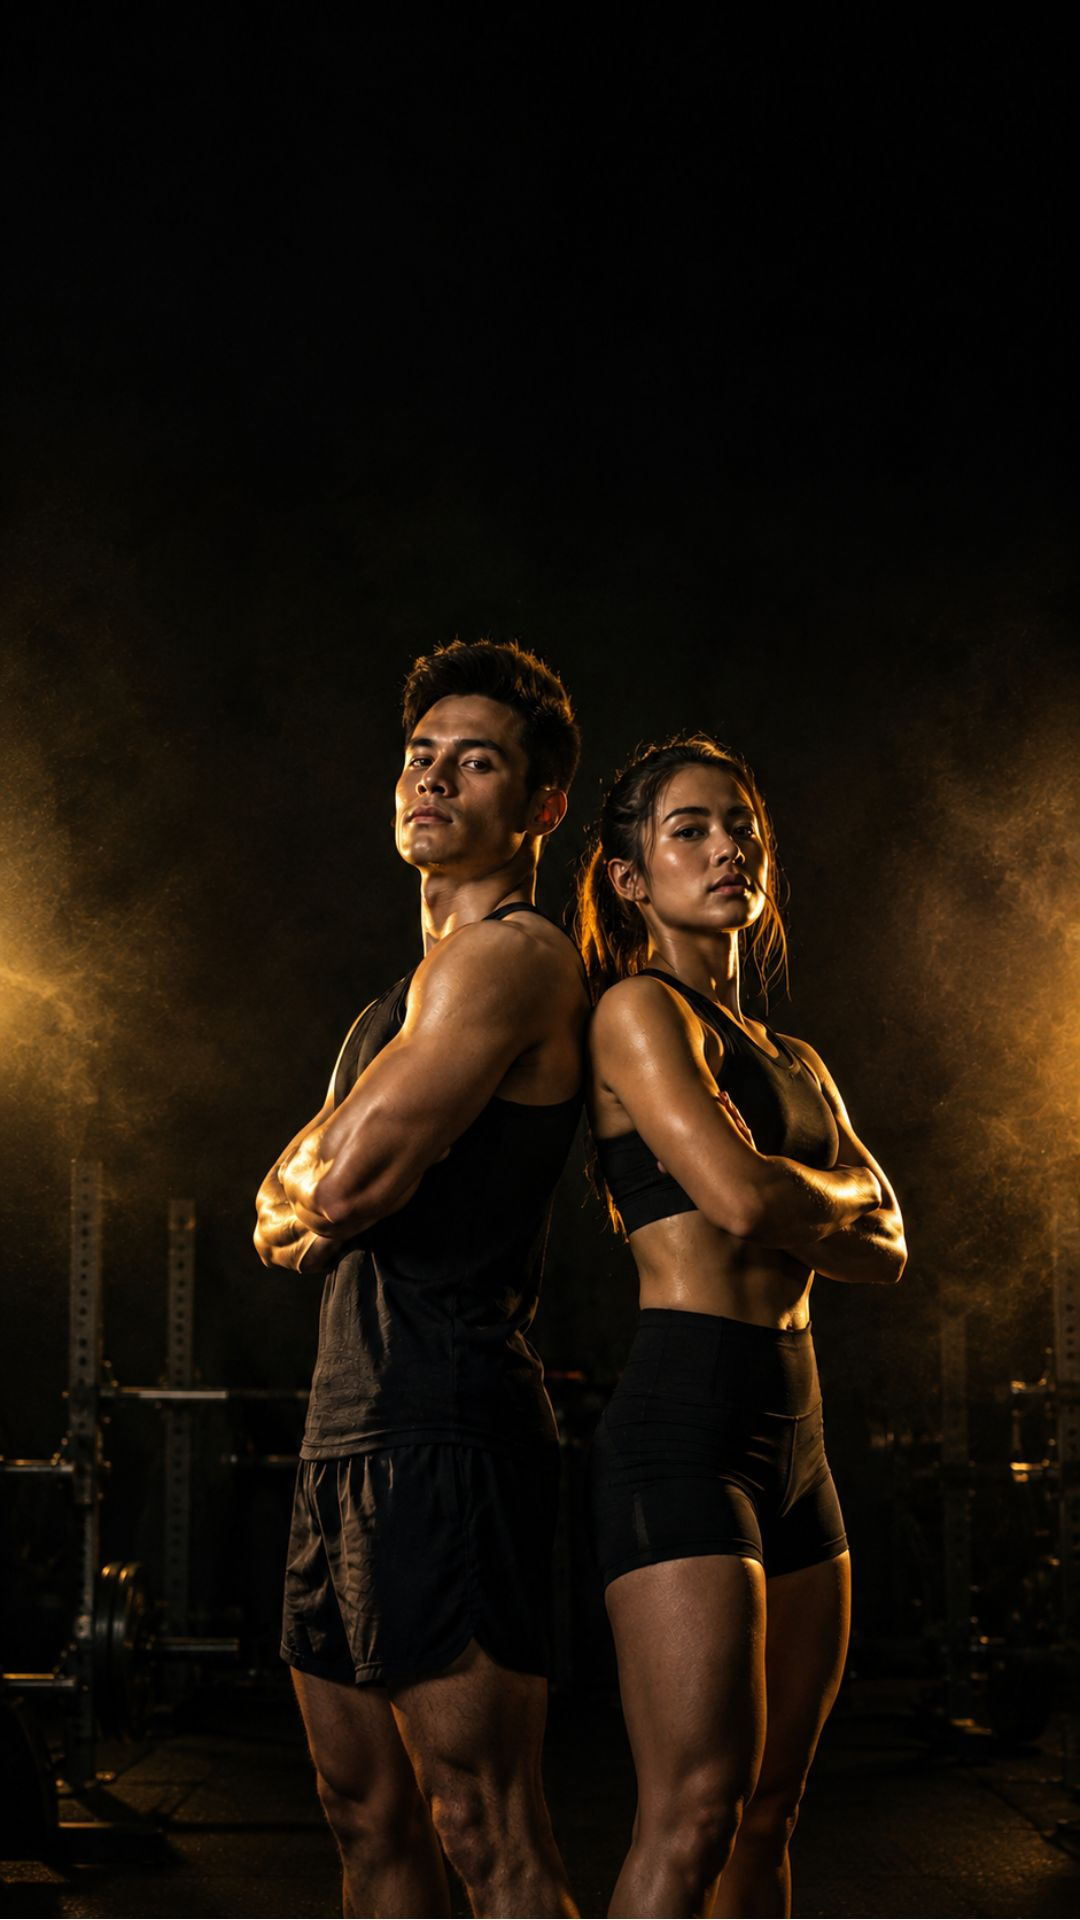
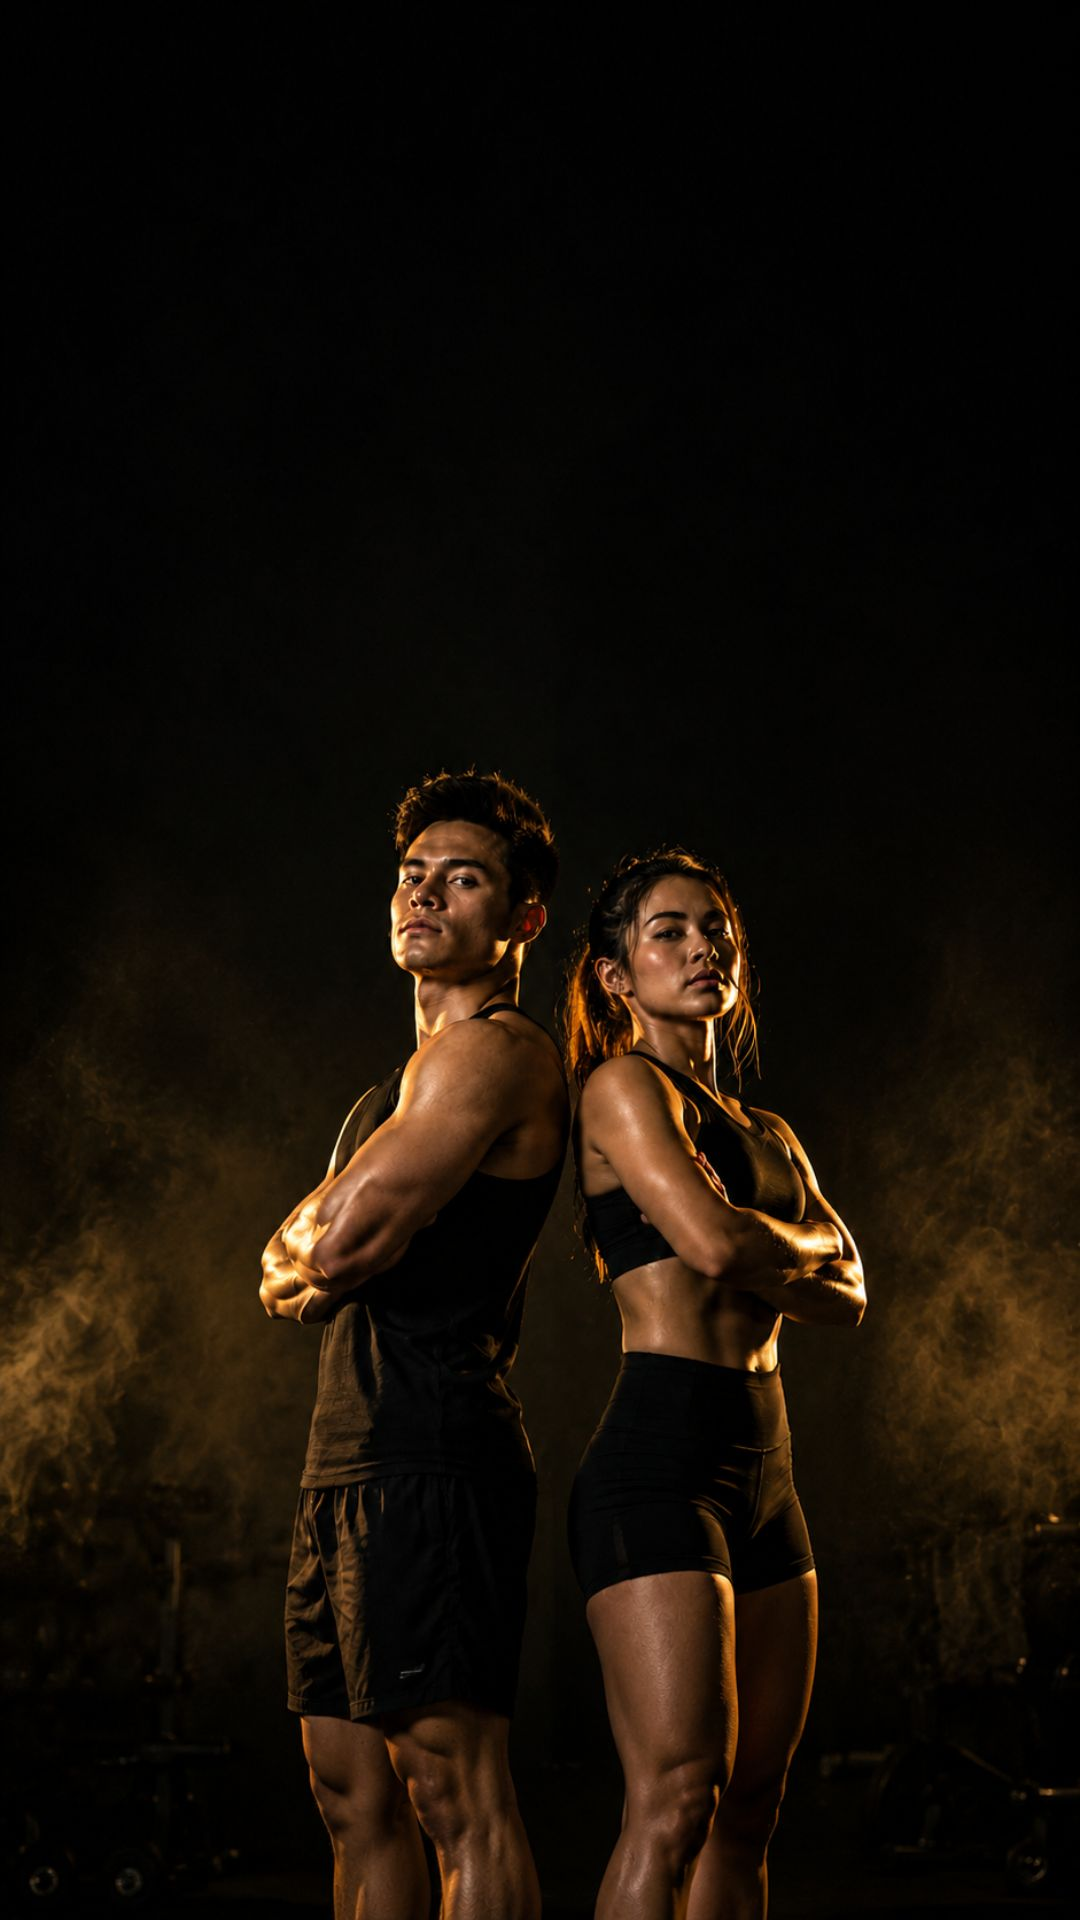
Full-bleed hero on mobile too, using the client's purpose-shot portrait crop
Client supplied a new mobile portrait shot (1080x1920) composed with the
models in the lower ~55-60% of frame and genuine empty space across the
top ~40% — the vertical equivalent of the wide desktop crop. Swapped it
in for the old mobile asset and replaced the stacked text-then-photo
layout with true full-bleed: text sits in the image's own empty top zone,
same overlap-free-by-construction approach as desktop, just top/bottom
instead of left/right.

Added a compact mobile copy variant (smaller headline, tighter spacing)
so the text block clears the subjects even on short viewports like
iPhone SE (667px) — verified at 375x667, 390x844, and 430x932.

Claude-Session: https://claude.ai/code/session_01UQCFeFnV6F8LMrQozMxTa8

diff --git a/src/components/home/Hero.tsx b/src/components/home/Hero.tsx
@@ -4,18 +4,32 @@ import { TAGLINE } from '../../content/product';
 import heroWide from '../../assets/hero-bg-wide.jpg';
 import heroMobile from '../../assets/hero-bg-mobile.jpg';
 
-function HeroCopy({ align = 'center' }: { align?: 'center' | 'left' }) {
+function HeroCopy({
+  align = 'center',
+  compact = false,
+}: {
+  align?: 'center' | 'left';
+  compact?: boolean;
+}) {
   const alignClasses = align === 'left' ? 'items-start text-left' : 'items-center text-center';
   return (
     <div className={`relative flex flex-col ${alignClasses}`}>
       <p className="kicker">Lean &amp; Fit Protein Coffee</p>
-      <h1 className="max-w-xl text-5xl leading-[0.95] text-lf-white sm:text-6xl lg:text-7xl [text-shadow:0_2px_20px_rgba(0,0,0,0.7)]">
+      <h1
+        className={`max-w-xl leading-[0.95] text-lf-white [text-shadow:0_2px_20px_rgba(0,0,0,0.7)] ${
+          compact ? 'text-4xl' : 'text-5xl'
+        } sm:text-6xl lg:text-7xl`}
+      >
         {TAGLINE.hero}
       </h1>
-      <p className="mt-6 max-w-md font-body text-base text-lf-cream/90 sm:text-lg [text-shadow:0_1px_12px_rgba(0,0,0,0.7)]">
+      <p
+        className={`max-w-md font-body text-base text-lf-cream/90 [text-shadow:0_1px_12px_rgba(0,0,0,0.7)] sm:text-lg ${
+          compact ? 'mt-3' : 'mt-6'
+        }`}
+      >
         High protein. Low sugar. Made for an active lifestyle.
       </p>
-      <OrderNowButton className="mt-10" />
+      <OrderNowButton className={compact ? 'mt-6' : 'mt-10'} />
     </div>
   );
 }
@@ -49,26 +63,27 @@ export function Hero() {
         </Container>
       </div>
 
-      {/* Mobile: stacked layout — solid text band on top, tall photo band
-          below cropped to show the full physique (not just faces). */}
-      <div className="sm:hidden">
-        <Container className="pb-10 pt-20">
-          <HeroCopy align="center" />
+      {/* Mobile: full-bleed portrait shot, subjects in the lower ~55% of
+          frame, text sits in the image's own empty top zone — same
+          overlap-free-by-construction approach as desktop, just rotated
+          from left/right to top/bottom. Compact spacing keeps this clear
+          of the subjects even on short viewports (e.g. iPhone SE). */}
+      <div className="relative flex min-h-[100svh] flex-col overflow-hidden sm:hidden">
+        <img
+          src={heroMobile}
+          alt="Fit man and woman, back to back, ready to train"
+          className="absolute inset-0 h-full w-full object-cover object-[50%_0%]"
+        />
+        <div
+          className="pointer-events-none absolute inset-0"
+          style={{
+            background:
+              'linear-gradient(180deg, rgba(13,13,13,0.6) 0%, rgba(13,13,13,0.15) 38%, transparent 50%, rgba(13,13,13,0.55) 100%)',
+          }}
+        />
+        <Container className="relative pb-10 pt-14">
+          <HeroCopy align="center" compact />
         </Container>
-        <div className="relative h-[520px] w-full overflow-hidden">
-          <img
-            src={heroMobile}
-            alt="Fit man and woman, back to back, ready to train"
-            className="absolute inset-0 h-full w-full object-cover object-[50%_38%]"
-          />
-          <div
-            className="pointer-events-none absolute inset-0"
-            style={{
-              background:
-                'linear-gradient(180deg, rgba(13,13,13,0.85) 0%, transparent 16%, transparent 82%, rgba(13,13,13,0.95) 100%)',
-            }}
-          />
-        </div>
       </div>
     </section>
   );
